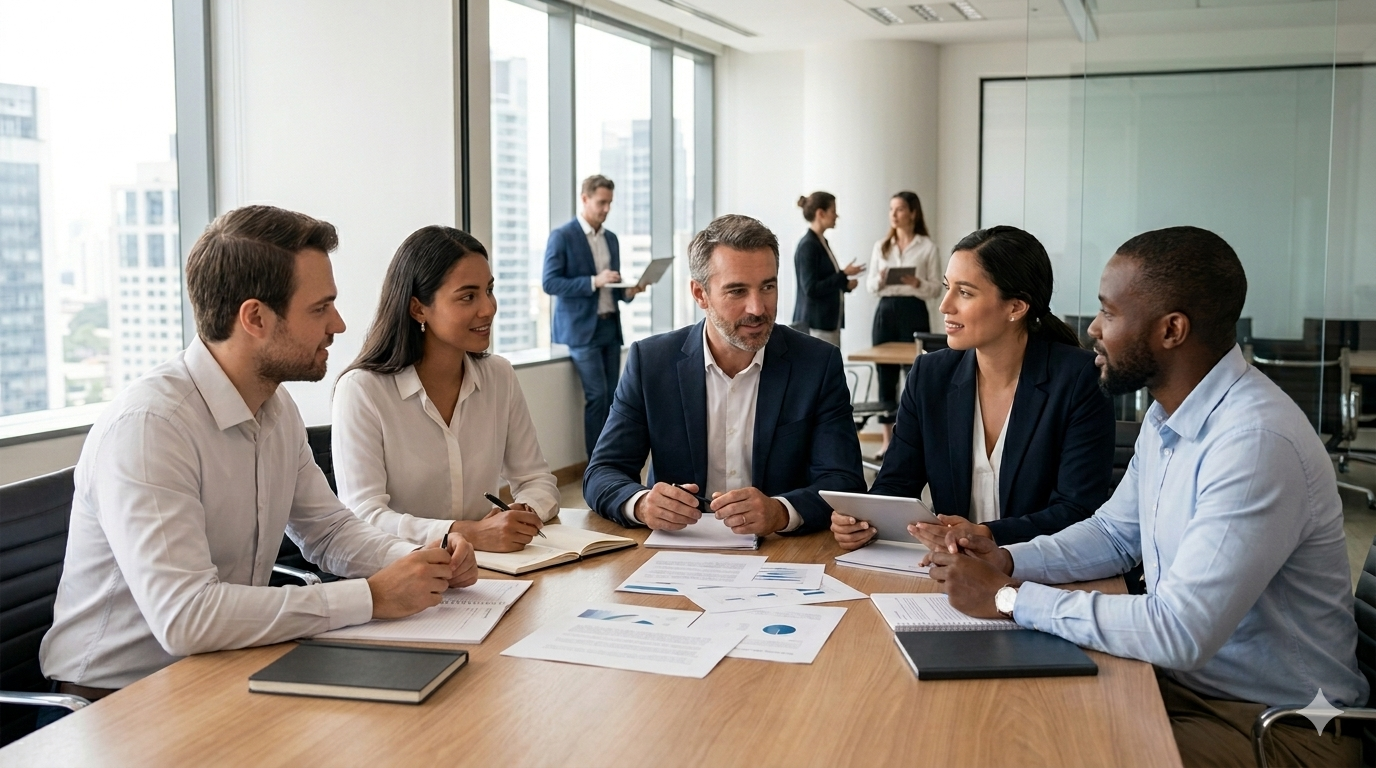
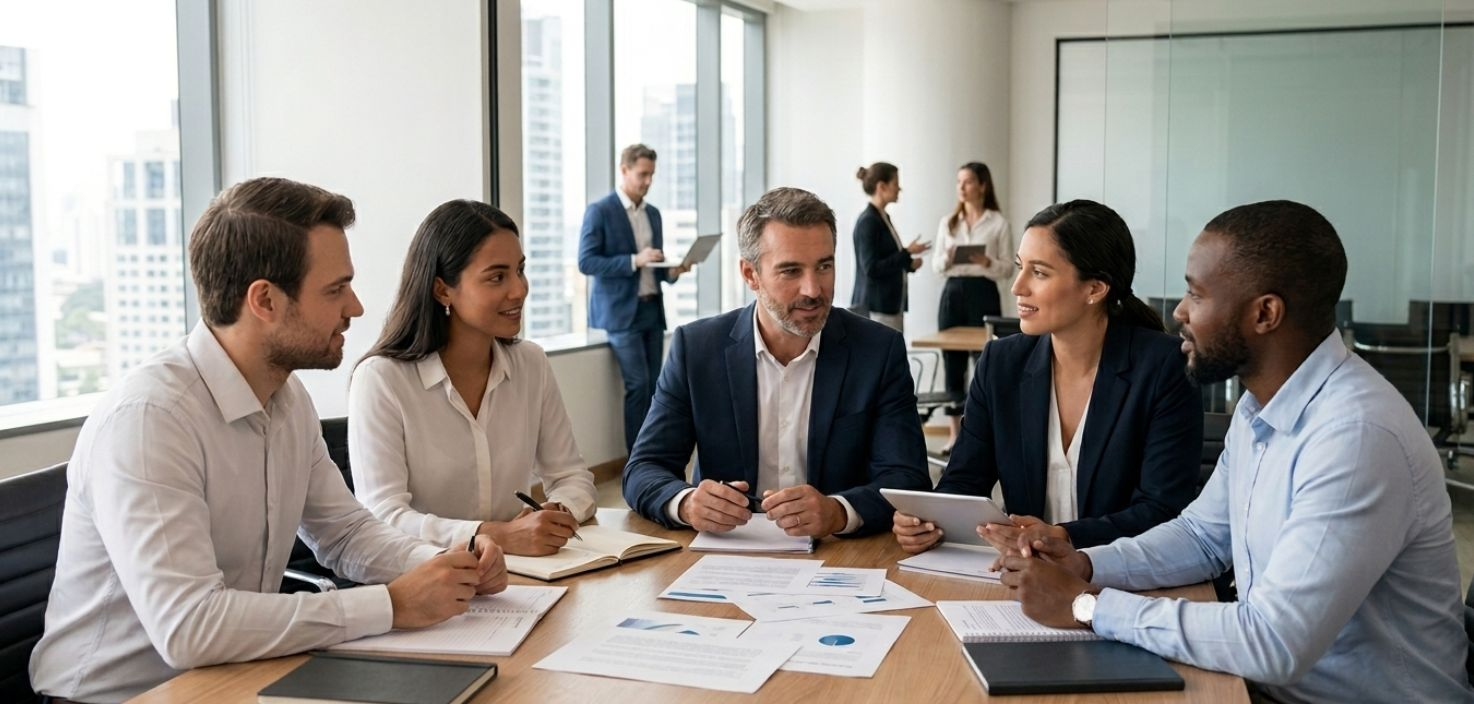
style: mudança no inicio e sobre

diff --git a/front-end/src/app/sobre/page.tsx b/front-end/src/app/sobre/page.tsx
@@ -2,14 +2,15 @@ import {
   EXPERIENCIA_SOBRE,
   VALORES_SOBRE,
 } from "../../shared/cards_mock/sobre_mock/card_mock";
-import Image from 'next/image'
+import Image from "next/image";
 
 export default function Sobre() {
   return (
-      <div className="text-[#393756] bg-[#eae9ef] flex items-center justify-center min-h-screen w-full flex-col bg-cover ">
-        <div className="px-8 md:px-102 text-start py-38 text-white items-center justify-center bg-[url('/evermont/assets/bg-sobre-contato.jpg')] min-h-[100vh] min-w-full bg-cover bg-bottom bg-no-repeat flex flex-col gap-6">
-          <h1 className="w-full text-3xl font-bold">Sobre Nós</h1>
-          <p className="w-full md:text-[1.2rem] text-[1.1rem] text-gray-300 leading-relaxed">
+    <div className="text-[#393756] bg-[#eae9ef] flex items-center justify-center min-h-screen w-full flex-col bg-cover ">
+      <div className="text-start py-38 text-white items-center justify-center bg-[url('/evermont/assets/bg-sobre-contato.jpg')] max-h-[100vh] lg:min-h-[100vh] min-w-full bg-cover bg-bottom bg-no-repeat flex flex-row gap-6">
+        <section className="flex flex-col max-w-none lg:max-w-[600px] gap-6 px-8 md:px-[20%] lg:px-0">
+          <h1 className="lg:text-[2.3rem] text-2xl font-bold text-center">Sobre Nós</h1>
+          <p className="md:text-[1.2rem] text-[1.1rem] text-gray-300 leading-relaxed ">
             A Evermont Consultoria fornece soluções assertivas e decisões
             estratégicas para impulsionar negócios. Nossa experiencia em
             consultoria de gestão e tecnologia permite identificar oportunidades
@@ -18,20 +19,23 @@ export default function Sobre() {
             transparência e foco em dados para transformar desafios em
             conquistas reais para sua empresa.
           </p>
+        </section>
+        <section className="items-center justify-center flex">
           <Image
-            className="w-full h-auto rounded-xl md:block hidden object-cover md:block hidden"
+            className="hidden lg:block w-182 h-92 rounded-xl shadow-2xl object-cover"
             src="/evermont/assets/card_sobre_page.jpg"
             alt="Sobre a Evermont"
-            width={800} 
-            height={450} 
-            priority 
+            width={800}
+            height={450}
+            priority
           />
-        </div>
+        </section>
+      </div>
 
-        <section className="px-8 md:px-102 text-center my-20">
+      <section className="px-8 md:px-[20%] text-center my-20">
         <h2 className="text-3xl font-bold mb-10">Nossa Experiencia</h2>
 
-        <div className="grid grid-cols-1 md:grid-cols-3 gap-6 text-white">
+        <div className="grid grid-cols-1 lg:grid-cols-3 gap-6 text-white">
           {EXPERIENCIA_SOBRE.map((card) => (
             <div
               key={card.id}
@@ -56,7 +60,7 @@ export default function Sobre() {
           Visão, Missão e Valores
         </h2>
 
-        <div className="grid grid-cols-1 md:grid-cols-3 gap-6 pb-12 text-white">
+        <div className="grid grid-cols-1 lg:grid-cols-3 gap-6 pb-12 text-white">
           {VALORES_SOBRE.map((card) => (
             <div
               key={card.id}
@@ -75,9 +79,8 @@ export default function Sobre() {
               </p>
             </div>
           ))}
-          
         </div>
-        </section>
-      </div>
+      </section>
+    </div>
   );
 }

diff --git a/front-end/src/app/page.tsx b/front-end/src/app/page.tsx
@@ -7,10 +7,10 @@ export default function Home() {
   return (
     <div className="flex flex-col min-h-screen text-white">
       <div
-        className={`min-h-[100vh] min-w-full bg-[url('/evermont/assets/bg-sobre-contato.jpg')] bg-cover bg-bottom bg-no-repeat flex flex-row justify-center pt-38 pb-[10%]`}
+        className={`min-h-[90vh] lg:min-h-[100vh] min-w-full bg-[url('/evermont/assets/bg-sobre-contato.jpg')] bg-cover bg-bottom bg-no-repeat flex flex-col lg:flex-row justify-center pt-38 pb-[10%]`}
       >
-        <div className="flex flex-col justify-center gap-8 px-8 md:px-0 md:items-start items-center">
-          <h1 className="max-w-none md:max-w-[600px] text-start lg:text-[2.3rem] text-xl font-bold text-white tracking-wide leading-6 md:leading-10">
+        <div className="flex flex-col items-center lg:items-none justify-center gap-8 px-8 md:px-[20%] lg:px-0 items-start">
+          <h1 className="max-w-none lg:max-w-[600px] text-start lg:text-[2.3rem] text-2xl font-bold text-white tracking-wide leading-6 md:leading-10">
             Transformamos dados em
             <span className="text-[#7CB6D8] mx-2 md:mx-3">
               clareza estratégica
@@ -18,7 +18,7 @@ export default function Home() {
             para decisões que movem empresas.
           </h1>
 
-          <p className="text-start md:text-[1.2rem] text-[1.1rem] text-gray-300 leading-relaxed max-w-none md:max-w-[500px]">
+          <p className="max-w-none lg:max-w-[500px] lg:text-start md:text-[1.2rem] text-[1.1rem] text-gray-300 leading-relaxed ">
             Soluções para empresas que buscam orientação baseada em dados,
             eficiência operacional e crescimento sustentável.
           </p>
@@ -31,12 +31,12 @@ export default function Home() {
         </div>
         <div className="items-center justify-center flex">
           <Image
-            src="/evermont/assets/card_inicio.png"
+            src="/evermont/assets/card_inicio.jpg"
             alt="Sobre a Evermont"
             width={800}
             height={450}
             priority
-            className="w-182 h-92 rounded-xl shadow-2xl object-cover "
+            className="hidden lg:block w-182 h-92 rounded-xl shadow-2xl "
           />
         </div>
       </div>
@@ -45,7 +45,7 @@ export default function Home() {
         <h2 className="text-[#393756]  text-3xl font-bold">
           Nossa Experiência
         </h2>
-        <div className="grid grid-cols-1 md:grid-cols-3 gap-6 w-[85%] md:w-[60%]">
+        <div className="grid grid-cols-1 lg:grid-cols-3 gap-6 w-[85%] md:w-[60%]">
           {experienceStats.map((card) => (
             <div
               key={card.id}
@@ -69,7 +69,7 @@ export default function Home() {
           A Evermont Consultoria transforma desafios empresariais complexos em
           decisões <br /> estruturadas e orientadas por informação e eficácia.
         </p>
-        <div className="grid grid-cols-1 md:grid-cols-3 gap-6 w-[85%] md:w-[60%] pb-10">
+        <div className="grid grid-cols-1 lg:grid-cols-3 gap-6 w-[85%] md:w-[60%] pb-10">
           {CARD_MOCK.map((card) => (
             <div
               key={card.id}

diff --git a/front-end/src/app/areaDeAtuacao/page.tsx b/front-end/src/app/areaDeAtuacao/page.tsx
@@ -3,7 +3,7 @@ import { CARD_MOCK, METODOLOGIA_MOCK } from '../../shared/cards_mock/areasDeAtua
 function AreaDeAtuacao() {
   return (
     <div
-      className="bg-[url('/evermont/assets/bg-sobre-contato.jpg')] flex items-center justify-center min-h-screen md:min-h-[150vh] w-full flex-col bg-cover bg-center bg-no-repeat text-white px-8 py-38 md:px-102"
+      className="bg-[url('/evermont/assets/bg-sobre-contato.jpg')] flex items-center justify-center min-h-screen md:min-h-[150vh] w-full flex-col bg-cover bg-center bg-no-repeat text-white py-38 px-8 md:px-[20%]"
     >
       <div className=" text-white flex flex-col gap-6">
         <h1 className="text-3xl font-bold tracking-wide">
@@ -13,7 +13,7 @@ function AreaDeAtuacao() {
           Soluções personalizadas para cada desafio empresarial.
         </p>
 
-        <div className="grid grid-cols-1 md:grid-cols-3 gap-6 text-white">
+        <div className="grid grid-cols-1 lg:grid-cols-3 gap-6 text-white">
           {CARD_MOCK.map((card) => (
             <div
               key={card.id}
@@ -39,7 +39,7 @@ function AreaDeAtuacao() {
         <h1 className="text-4xl font-semibold mb-4 tracking-wide text-start">
           Como Conduzimos a Transformação
         </h1>
-        <div className="grid grid-cols-1 md:grid-cols-3 gap-6 text-white">
+        <div className="grid grid-cols-1 lg:grid-cols-3 gap-6 text-white">
           {METODOLOGIA_MOCK.map((card) => (
             <div
               key={card.id}

diff --git a/front-end/src/app/contato/page.tsx b/front-end/src/app/contato/page.tsx
@@ -1,11 +1,11 @@
 function Contato(){
     return(
-        <div className="bg-[url('/evermont/assets/bg-sobre-contato.jpg')] flex items-center justify-center md:min-h-screen w-full flex-col bg-cover bg-bottom bg-no-repeat py-40 px-8 md:px-102">
+        <div className="bg-[url('/evermont/assets/bg-sobre-contato.jpg')] flex items-center justify-center md:min-h-screen w-full flex-col bg-cover bg-bottom bg-no-repeat py-40 px-8 md:px-[20%]">
             <div className="w-full text-start text-white flex flex-col gap-4">
             <h1 className="text-3xl font-bold tracking-wide">Entre em Contato</h1>
             <p className="md:text-[1.2rem] text-[1.1rem] text-gray-300 leading-relaxed">Converse com nossos consultores, discubra como podemos acelerar os resultados da sua empresa.</p>
             </div>
-        <form className="px-[5%] md:px-9 bg-white text-black rounded-xl flex flex-col w-full py-[8%] md:py-[2%] md:items-start items-center justify-center gap-2 mt-8">
+        <form className="px-5 md:px-12  bg-white text-black rounded-xl flex flex-col w-full py-[8%] md:py-[2%] md:items-start items-center justify-center gap-2 mt-8">
             <label className="text-[#4A5568] text-md font-medium mb-1 flex flex-col w-full">
                 Digite o nome da empresa: 
                 <input 

diff --git a/front-end/src/app/globals.css b/front-end/src/app/globals.css
@@ -3,3 +3,6 @@
 body {
   font-family: var(--font-montserrat), sans-serif;
 }
+:root {
+  --tablet-breakpoint: min:768px;
+}

diff --git a/front-end/src/app/layout.tsx b/front-end/src/app/layout.tsx
@@ -11,7 +11,7 @@ const montserrat = Montserrat({
 });
 
 export const metadata: Metadata = {
-  title: "Evermont Consultoria", // Título atualizado
+  title: "Evermont Consultoria", 
   description: "A Evermont Group oferece soluções em eficiência operacional, consultoria de gestão e planejamento para expansão de empresas.",
   keywords: ['Evermont', 'Consultoria', 'Gestão Estratégica', 'Eficiência Operacional'],
   icons: {